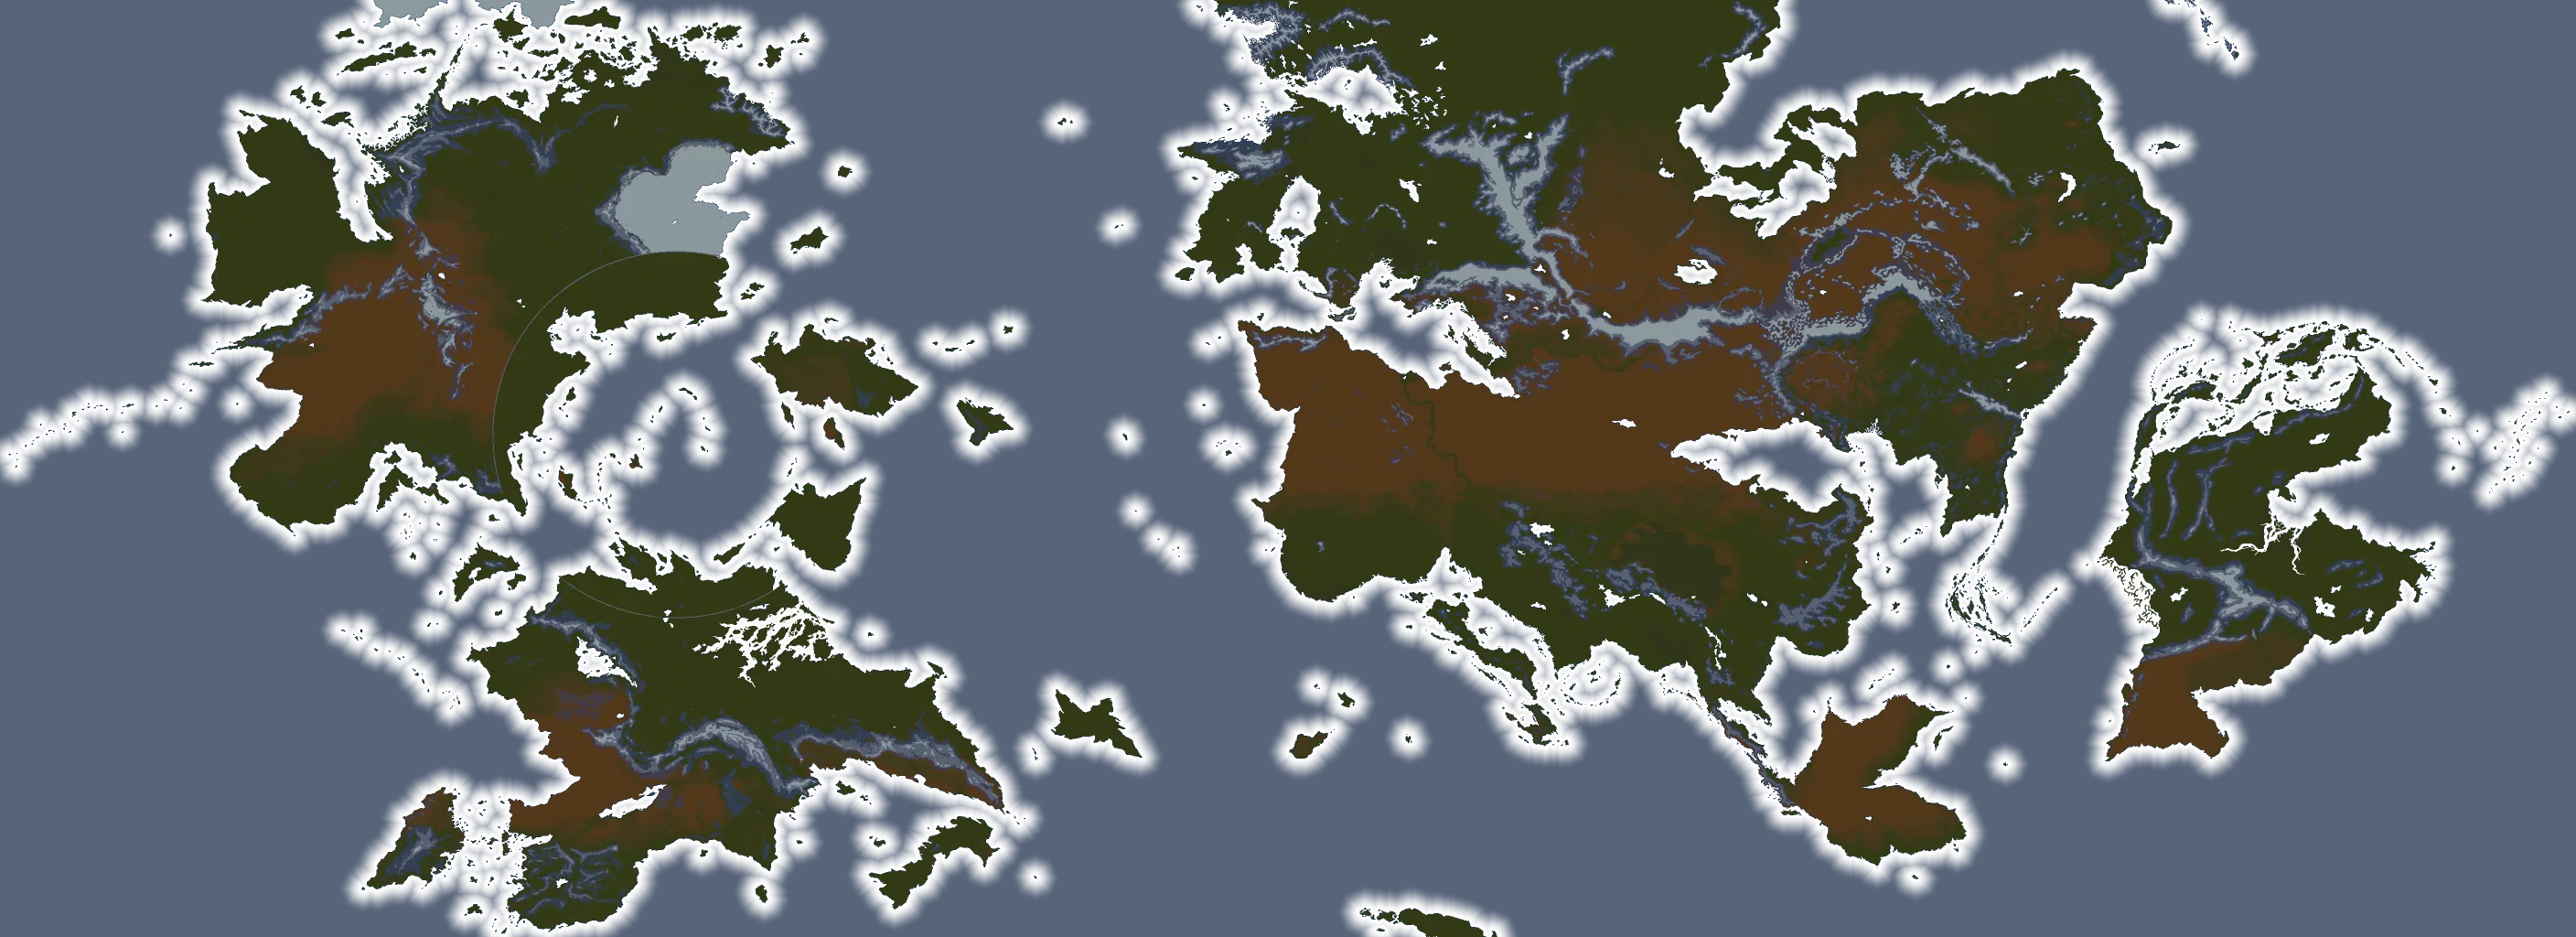
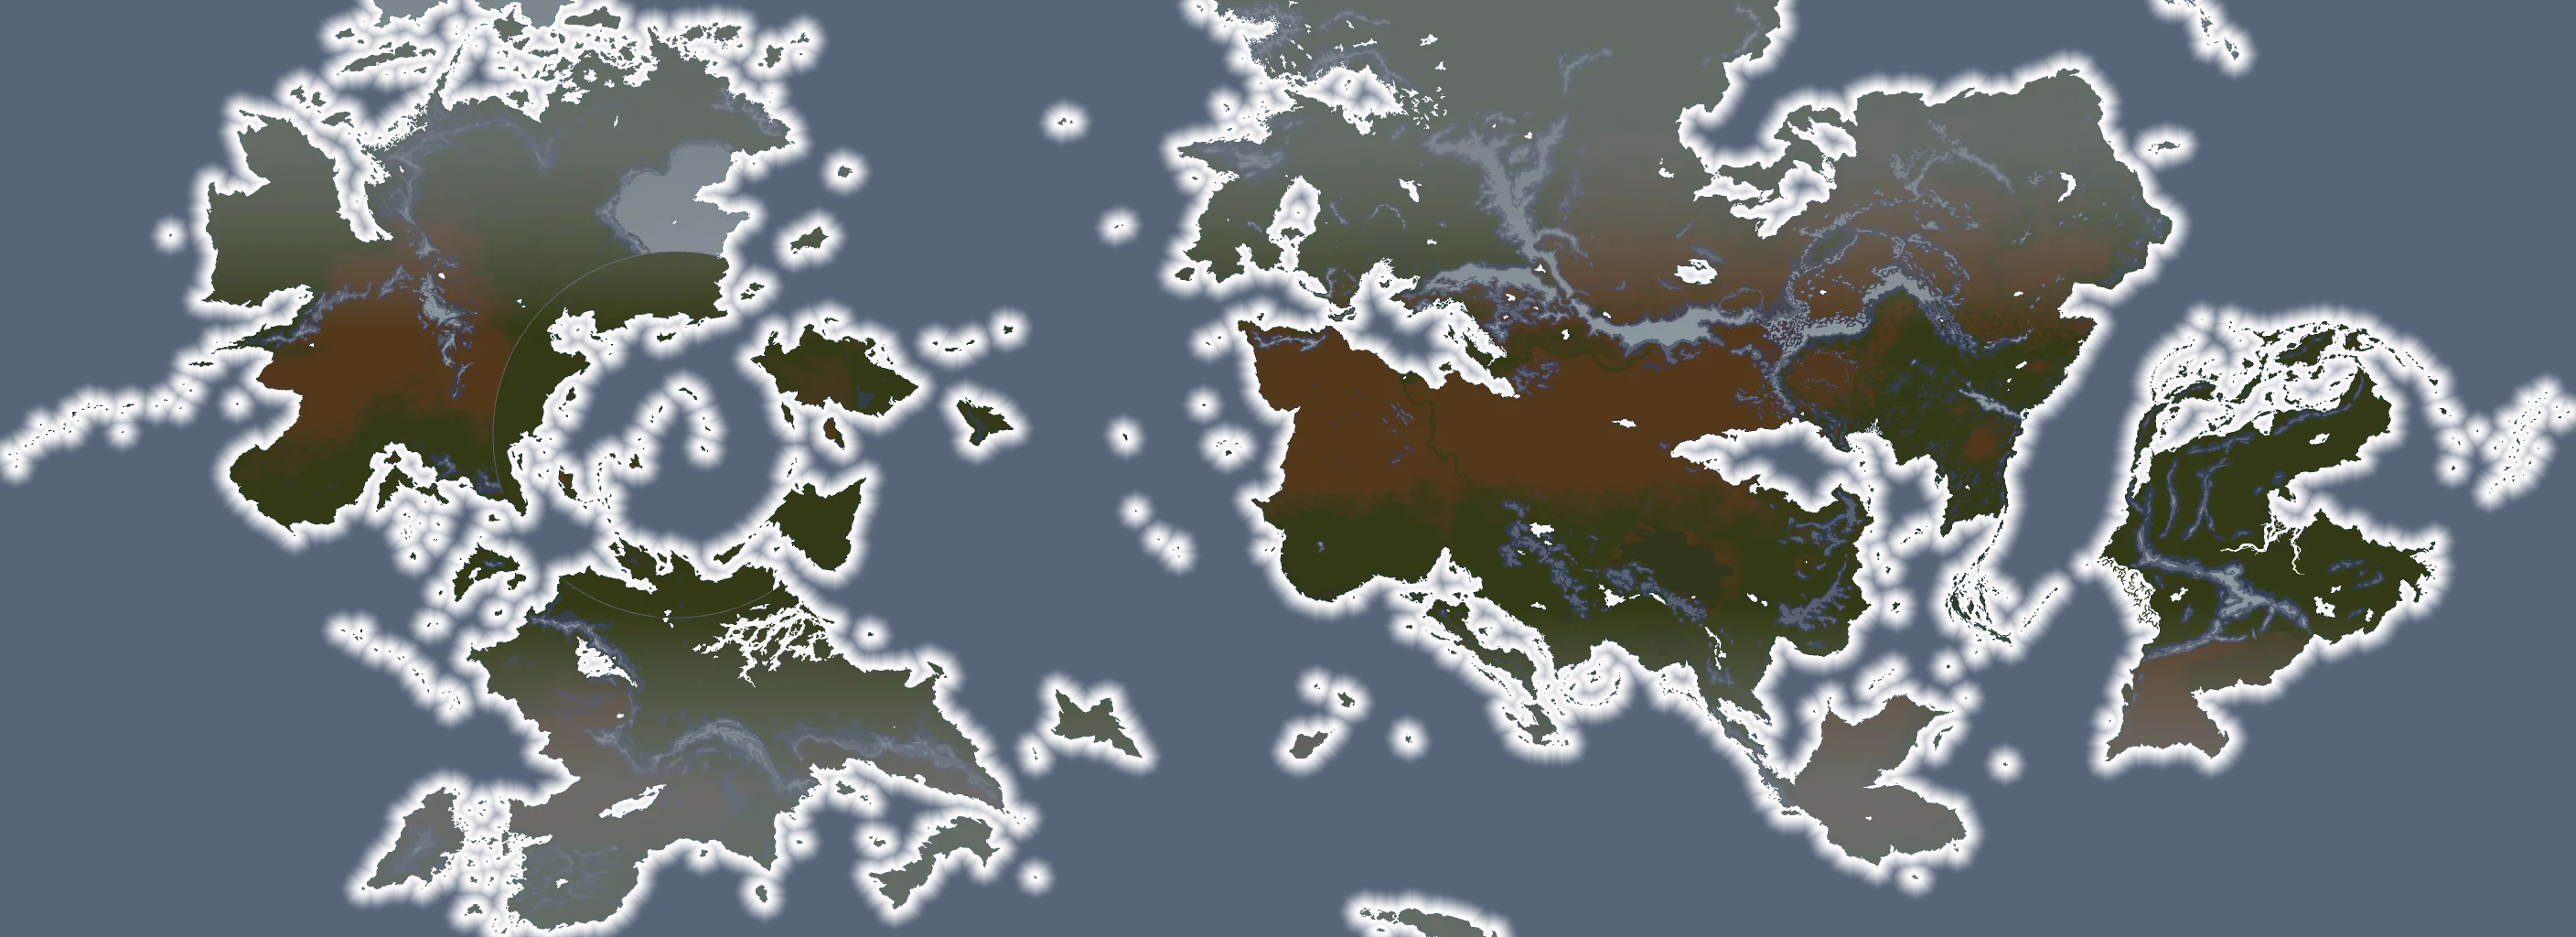
feat(geo): latitude+winter terrain climate + forage-aware caravan routing
The imported Anbennar terrain.bmp ignores latitude — it paints the far north
green grassland — so high-latitude provinces looked fertile and the zoomed-out
map was all green. Port the C2C planet generator's climate model to cool them.

- LatitudeClimate: temperature = 40 - 0.6·|lat| (equator warm, poles ~-14°,
  from data/civ4/C2C_Planet_Generator_0_68.py getTileTemperature) plus a winter
  offset (mild -5, normal -10, severe -16), and the generator's temperature->
  terrain bands (taiga/tundra/permafrost). coldFraction ramps the override in so
  the temperate zone is untouched.
- Per-plot: ProvincePlotField cools a normal LAND province's warm imported ground
  toward taiga/tundra/permafrost by its latitude and winter severity (Moonmount,
  66° severe: 168 grassland -> tundra/permafrost). Special terrains keep their
  biome; mountains stay. Caches regenerated.
- Raster: build.mjs tints high-latitude land toward pale tundra so the zoomed-out
  world reads cold, not green (per-pixel, latitude-only; winter is per-plot).

Forage-aware routing: LandRouter.forageHarshness weights the A* search by how
un-forageable a province is (glacier x6, the sunless Dwarovar x4, cold tundra up
to x3.5), so bands detour around ground they can't eat along — the march still
spends real km, so only path choice changes and the km heuristic stays
admissible. Arctic-city bands (e.g. Damescrown, 72°) now arrive via a forageable
[…]

diff --git a/src/main/java/com/civstudio/geo/LatitudeClimate.java b/src/main/java/com/civstudio/geo/LatitudeClimate.java
@@ -1,0 +1,121 @@
+package com.civstudio.geo;
+
+import java.util.LinkedHashMap;
+import java.util.Map;
+
+/**
+ * Latitude → temperature → cold-terrain model, ported from the Caveman2Cosmos planet
+ * generator ({@code data/civ4/C2C_Planet_Generator_0_68.py}, {@code getTileTemperature} +
+ * the {@code generateTerrain} temperature bands). The imported Anbennar {@code terrain.bmp}
+ * ignores latitude — it paints the far north green grassland — so this cools the ground
+ * toward taiga/tundra/permafrost as latitude rises, matching the generator's bands.
+ * <p>
+ * Temperature model (the generator's defaults): {@code climateTemperature = 40} at the
+ * equator, {@code climateVariation = 0.4} so the poles reach {@code (40+50)*0.4 - 50 = -14};
+ * linear in the distance from the equator, i.e. {@code temp = 40 - 0.6·|lat|} over 0..90°.
+ * The band → terrain weights are the generator's (its {@code terrainTundra} = our
+ * {@code TAIGA}, its {@code terrainPermafrost} = our {@code TUNDRA}, its {@code terrainSnow}
+ * = our coldest land terrain {@code PERMAFROST} — we have no {@code TERRAIN_ICE} land type).
+ * <p>
+ * We <b>import</b> terrain rather than generate it, so this is applied as an override on the
+ * imported <em>warm</em> ground (see {@link #isWarm}), ramped in by {@link #coldFraction} so
+ * the temperate zone is untouched and the far north transitions smoothly to cold.
+ */
+public final class LatitudeClimate {
+
+	private LatitudeClimate() {
+	}
+
+	// C2C planet-generator climate constants (its module globals)
+	private static final double CLIMATE_TEMPERATURE = 40.0; // equator
+	private static final double CLIMATE_VARIATION = 0.4;
+	private static final double CLIMATE_HUMIDITY = 0.5;
+	private static final double LOWEST_TEMPERATURE =
+			(CLIMATE_TEMPERATURE + 50) * CLIMATE_VARIATION - 50; // -14 at the poles
+
+	/** Temperature at |lat|=0 vs 90°, linear (the generator's {@code getTileTemperature}). */
+	public static double temperature(double latitude) {
+		double f = Math.min(1.0, Math.abs(latitude) / 90.0);
+		return CLIMATE_TEMPERATURE + (LOWEST_TEMPERATURE - CLIMATE_TEMPERATURE) * f;
+	}
+
+	/**
+	 * Extra cooling (°C) from the province's Anbennar winter severity (from {@code
+	 * climate.txt}) — a harsher winter reads colder than latitude alone, so a
+	 * severe-winter province at a middling latitude still turns taiga/tundra.
+	 */
+	public static double winterOffset(WinterSeverity winter) {
+		return switch (winter) {
+			case NONE -> 0.0;
+			case MILD -> 5.0;
+			case NORMAL -> 10.0;
+			case SEVERE -> 16.0;
+		};
+	}
+
+	/**
+	 * The <b>effective</b> temperature the terrain bands read: latitude temperature minus the
+	 * winter cooling. This is what {@link #coldFraction} and {@link #coldPool} should be given.
+	 */
+	public static double effectiveTemperature(double latitude, WinterSeverity winter) {
+		return temperature(latitude) - winterOffset(winter);
+	}
+
+	// the temperature below which the imported warm terrain starts being cooled (taiga band top),
+	// and the temperature at/below which it is fully replaced (deep cold). coldFraction ramps between.
+	private static final double COLD_START = 12.0;   // ~|lat| 47° — first hint of boreal
+	private static final double COLD_FULL = -6.0;    // ~|lat| 77° — fully cold
+
+	/** How strongly latitude overrides the imported warm ground (0 in the temperate zone → 1 in the deep cold). */
+	public static double coldFraction(double temperature) {
+		if (temperature >= COLD_START)
+			return 0.0;
+		if (temperature <= COLD_FULL)
+			return 1.0;
+		return (COLD_START - temperature) / (COLD_START - COLD_FULL);
+	}
+
+	/**
+	 * The warm, latitude-inappropriate land terrains a cold latitude replaces — everything
+	 * temperate/warm and flat-ish. Mountains ({@code ROCKY}/{@code JAGGED}) and the
+	 * already-cold terrains are kept, so relief and existing tundra survive.
+	 */
+	public static boolean isWarm(Terrain t) {
+		return switch (t.type()) {
+			case "TERRAIN_GRASSLAND", "TERRAIN_LUSH", "TERRAIN_PLAINS", "TERRAIN_SCRUB",
+					"TERRAIN_MARSH", "TERRAIN_MUDDY", "TERRAIN_DESERT", "TERRAIN_DUNES",
+					"TERRAIN_SALT_FLATS", "TERRAIN_BADLAND" -> true;
+			default -> false; // ROCKY/JAGGED (mountains), TAIGA/TUNDRA/PERMAFROST (already cold), etc.
+		};
+	}
+
+	/**
+	 * The weighted cold-terrain pool for a temperature, from the generator's {@code
+	 * generateTerrain} bands (weights = its {@code randomTerrain} slot indices at humidity 0.5;
+	 * the warm bands above the cold override are dropped). Never empty for {@code temperature <
+	 * COLD_START}; falls back to taiga so a plot always has a cold ground to draw.
+	 */
+	public static Map<String, Double> coldPool(double temperature) {
+		Map<String, Double> w = new LinkedHashMap<>();
+		double h = CLIMATE_HUMIDITY;
+		if (temperature > 4 && temperature < 30)
+			bump(w, "TERRAIN_GRASSLAND", 7 * (h + 0.5));       // 7
+		if (temperature > -2 && temperature < 25)
+			bump(w, "TERRAIN_PLAINS", 7);
+		if (temperature > -5 && temperature < 18)
+			bump(w, "TERRAIN_MARSH", 10);
+		if (temperature > -10 && temperature < 10)
+			bump(w, "TERRAIN_TAIGA", 7);                       // generator's "tundra"
+		if (temperature < 0)
+			bump(w, "TERRAIN_PERMAFROST", temperature < -30 ? 15 * (h / 2 + 0.75) : 7 * (h / 2 + 0.75)); // its "snow"
+		if (temperature < 0 && temperature >= -20)
+			bump(w, "TERRAIN_TUNDRA", temperature < -10 ? 15 * (h / 2 + 0.75) : 7 * (h / 2 + 0.75));      // its "permafrost"
+		if (w.isEmpty())
+			w.put("TERRAIN_TAIGA", 1.0);
+		return w;
+	}
+
+	private static void bump(Map<String, Double> w, String type, double by) {
+		w.merge(type, by, Double::sum);
+	}
+}

diff --git a/src/main/java/com/civstudio/geo/LandRouter.java b/src/main/java/com/civstudio/geo/LandRouter.java
@@ -70,7 +70,11 @@ public final class LandRouter {
 			for (int nb : map.neighbors(cur)) {
 				if (!map.province(nb).isLand())
 					continue; // land-only: never route a foot caravan over water or wasteland
-				double tentative = gc + map.edgeKm(cur, nb);
+				// weight the search by forageability so bands prefer routes they can eat along, and
+				// detour around un-forageable ground (ice, cold tundra, the sunless Dwarovar) where
+				// the destination allows. The march still spends REAL km (build() uses edgeKm), so this
+				// shifts path CHOICE only; a penalty ≥ 1 keeps the km heuristic admissible.
+				double tentative = gc + map.edgeKm(cur, nb) * forageHarshness(map.province(nb));
 				Double best = g.get(nb);
 				if (best == null || tentative < best) {
 					g.put(nb, tentative);
@@ -81,6 +85,24 @@ public final class LandRouter {
 			}
 		}
 		return Route.NONE;
+	}
+
+	/**
+	 * A {@code >= 1} multiplier on an edge's <b>search</b> cost by how un-forageable its
+	 * destination province is, so the router prefers routes a marching band can eat along.
+	 * The real march distance is unchanged (this shifts path choice only): glacier ice and
+	 * the sunless Dwarovar forage almost nothing, and the latitude-cooled tundra (see {@link
+	 * LatitudeClimate}) forages progressively less as it turns cold. Temperate land and the
+	 * special forest terrains forage fine ({@code 1.0}).
+	 */
+	private static double forageHarshness(Province p) {
+		return switch (p.type()) {
+			case GLACIER -> 6.0;                          // barren ice
+			case CAVERN, DWARVEN_HOLD, DWARVEN_HOLD_SURFACE, DWARVEN_ROAD -> 4.0; // sunless, little forage
+			case LAND -> 1.0 + 2.5 * LatitudeClimate.coldFraction(
+					LatitudeClimate.effectiveTemperature(p.latitude(), p.winter())); // 1 → 3.5 toward the poles
+			default -> 1.0;                               // forests / temperate ground forage fine
+		};
 	}
 
 	// reconstruct the province sequence and its per-hop km from the came-from chain

diff --git a/src/main/java/com/civstudio/geo/ProvincePlotField.java b/src/main/java/com/civstudio/geo/ProvincePlotField.java
@@ -188,6 +188,23 @@ public final class ProvincePlotField {
 				composed[idx] = rougher(relief[idx], MapTerrainCodec.relief(mask.terrainIndex(lx, ly)));
 			}
 
+		// latitude climate: the imported terrain.bmp ignores latitude (it paints the far north green
+		// grassland), so cool a normal LAND province's warm ground toward taiga/tundra/permafrost as
+		// its latitude — and its winter severity — rise. Ported from the C2C planet generator (see
+		// LatitudeClimate); ramped by coldFraction so the temperate zone is untouched. Special-terrain
+		// provinces (glacier/forests/caves) keep their biome (handled below), and mountains stay.
+		if (province.type() == ProvinceType.LAND) {
+			double temp = LatitudeClimate.effectiveTemperature(province.latitude(), province.winter());
+			double coldFrac = LatitudeClimate.coldFraction(temp);
+			if (coldFrac > 0) {
+				TerrainGenerator coldGen = new TerrainGenerator(registry, LatitudeClimate.coldPool(temp));
+				for (int idx = 0; idx < ground.length; idx++)
+					if (ground[idx] != null && LatitudeClimate.isWarm(ground[idx])
+							&& rng.uniform() < coldFrac)
+						ground[idx] = coldGen.next(rng);
+			}
+		}
+
 		// special-terrain provinces generate their ground from a type-specific weighted pool
 		// (a cavern floor, an ancient forest, a glacier, …) instead of the raster's per-plot
 		// palette — the raster reads them as generic mountain/forest, so membership drives the

diff --git a/src/test/java/com/civstudio/simulation/DhenijansarToWexkeepTest.java b/src/test/java/com/civstudio/simulation/DhenijansarToWexkeepTest.java
@@ -174,8 +174,11 @@ class DhenijansarToWexkeepTest {
 		assertTrue(totalForaged > 0, "the band foraged food on the way");
 		assertEquals(provision - totalAte + totalForaged, larderAtWexkeep, 1.0,
 				"larder = provision - eaten + foraged (accounting)");
-		assertEquals(totalForaged, larderAtWexkeep, provision * 0.1,
-				"the larder at Wexkeep reflects what was foraged (provision covered the eating)");
+		// the band arrives with a positive larder — on colder high-latitude legs it eats a little
+		// more than it provisioned and leans on foraging to cover the trip, but never starves
+		// (the router steers it around the worst tundra; see LandRouter/LatitudeClimate)
+		assertTrue(larderAtWexkeep > 0,
+				"the band arrived at Wexkeep with food in the larder (larder=" + larderAtWexkeep + ")");
 		// the band gathered the non-food resources it crossed (ores, gems, luxuries...)
 		// into its cargo — the per-good inventory the future trade caravan trades from —
 		// in whole units (discrete goods: no fractional elephants)

diff --git a/src/test/java/com/civstudio/simulation/ParallelCaravansTest.java b/src/test/java/com/civstudio/simulation/ParallelCaravansTest.java
@@ -101,7 +101,9 @@ class ParallelCaravansTest {
 			bands.add(band);
 		}
 
-		// one thread per band; each with its own Rng and its own journal writer
+		// one thread per band; each with its own Rng and its own journal writer. Even the arctic
+		// cities (e.g. Damescrown, lat ~72°) arrive well within this horizon because the router now
+		// steers bands around the un-forageable latitude-cooled tundra (LandRouter.forageHarshness).
 		int maxDays = 365 * 20;
 		LocalDate start = LocalDate.of(1445, 6, 1);
 		ExecutorService pool = Executors.newFixedThreadPool(bands.size());